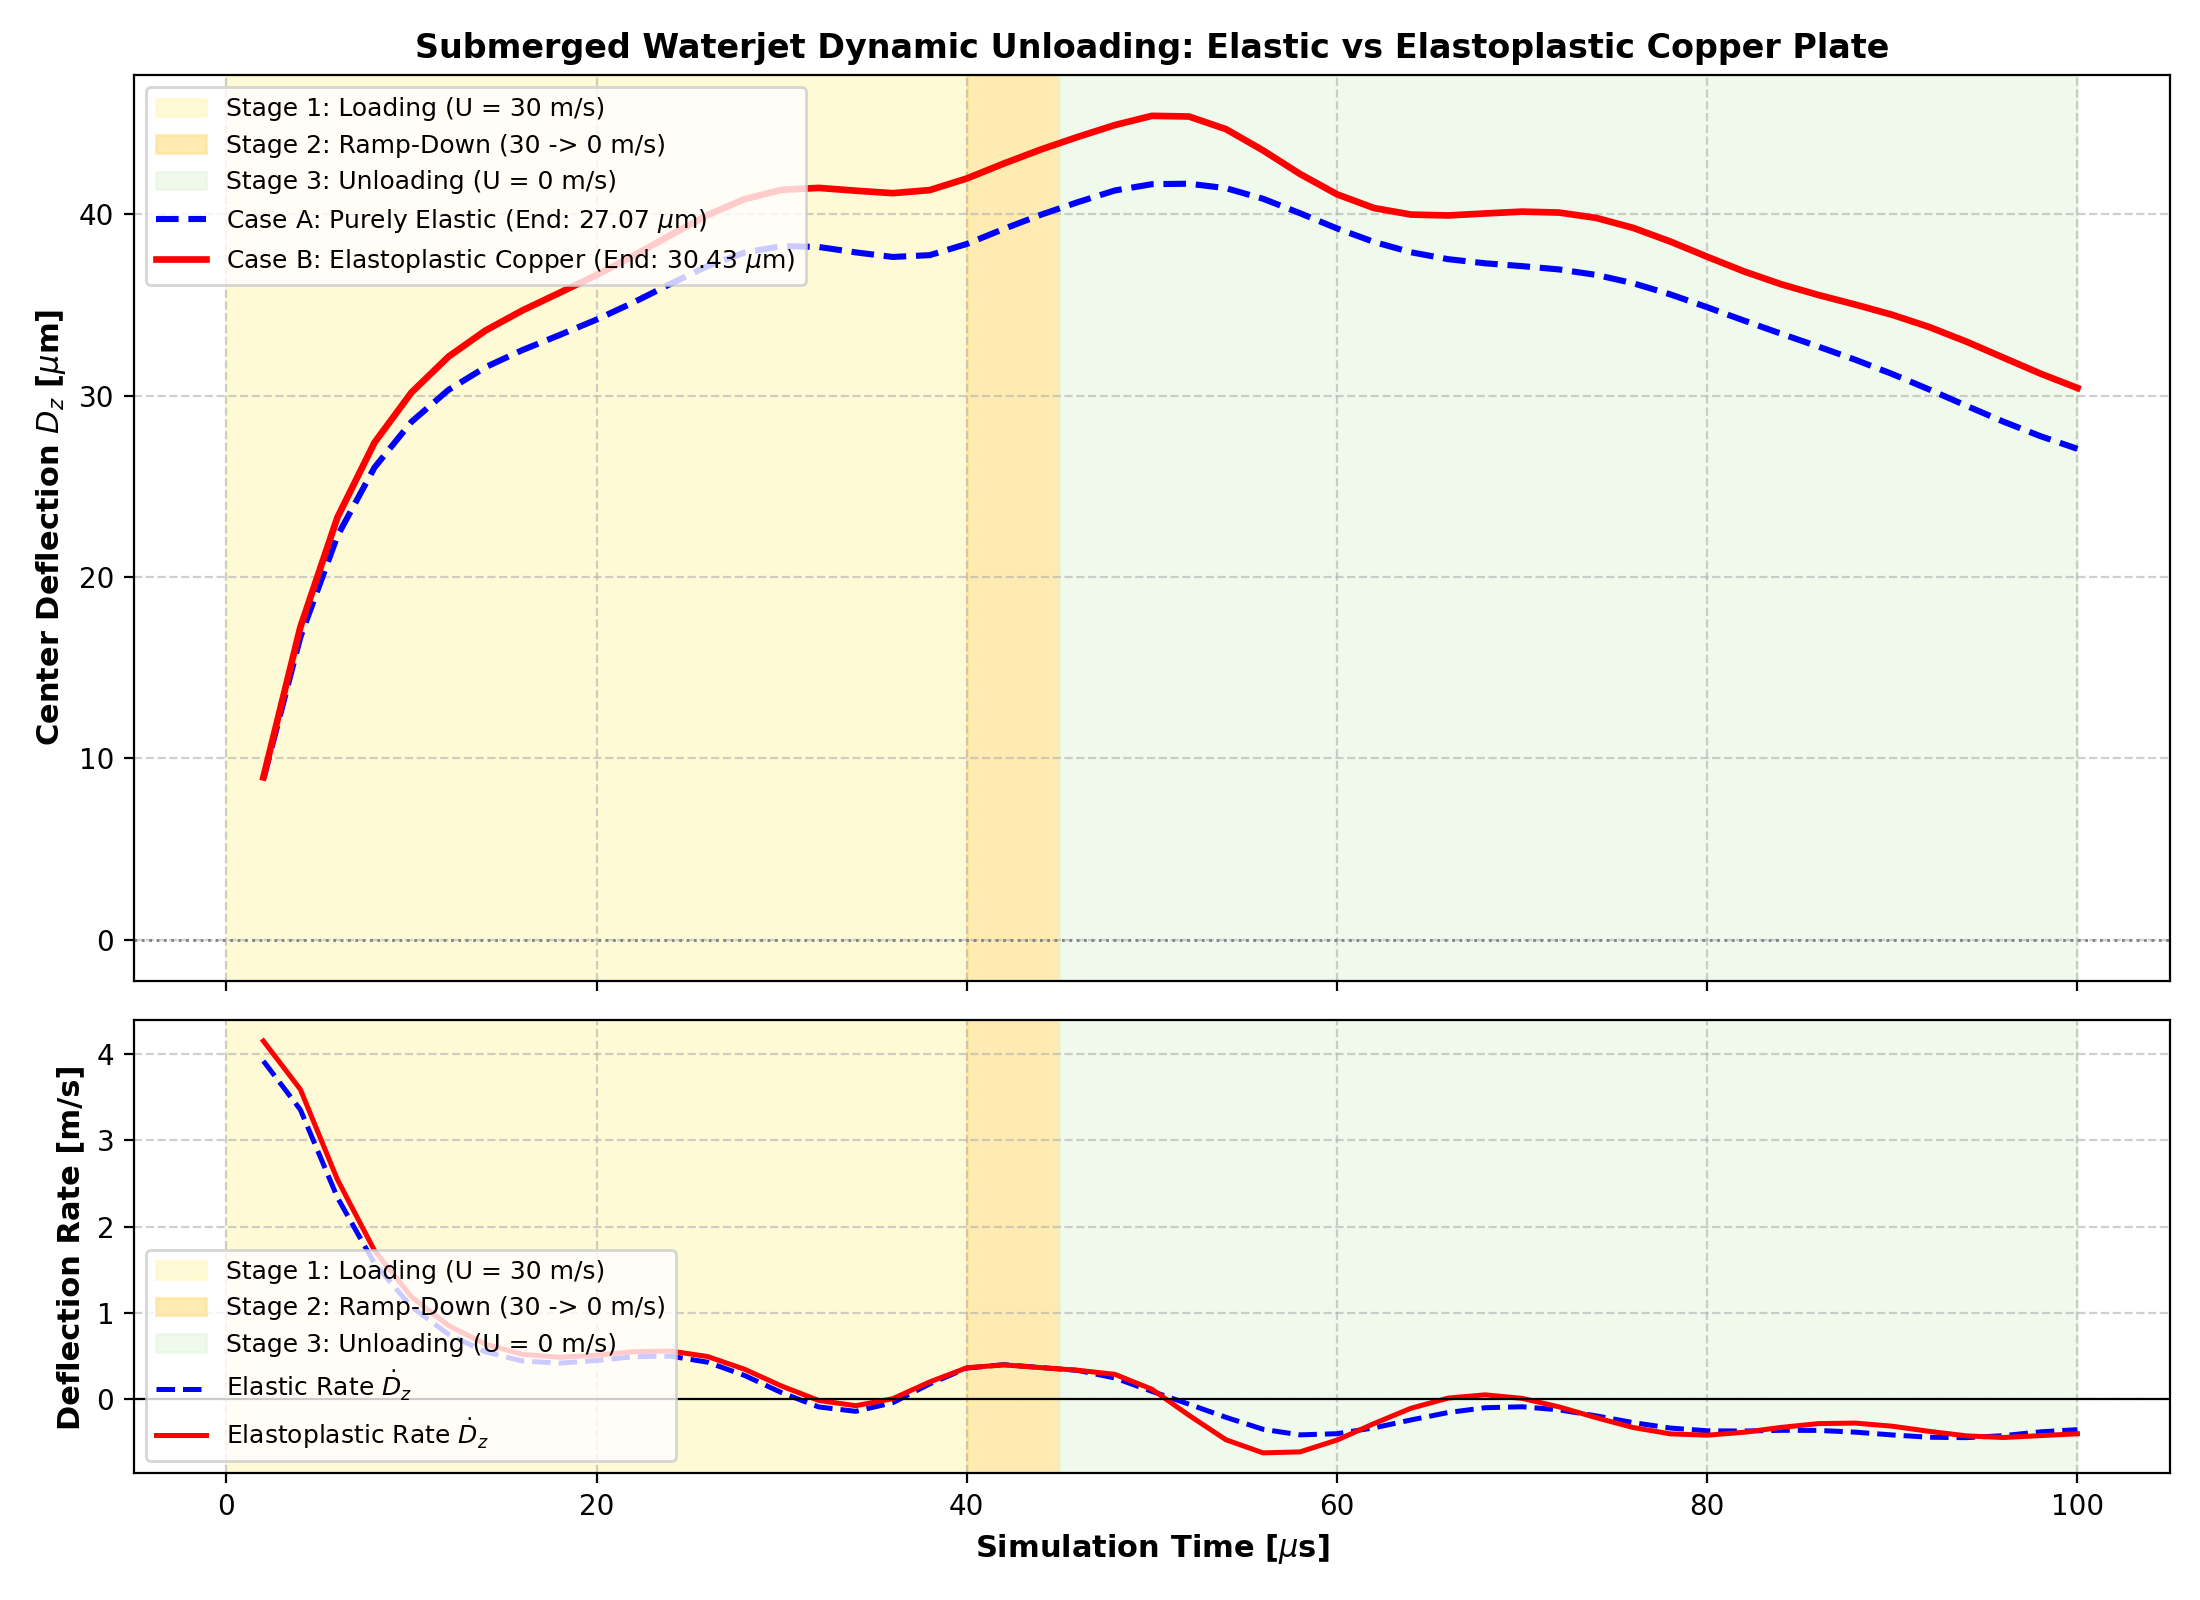
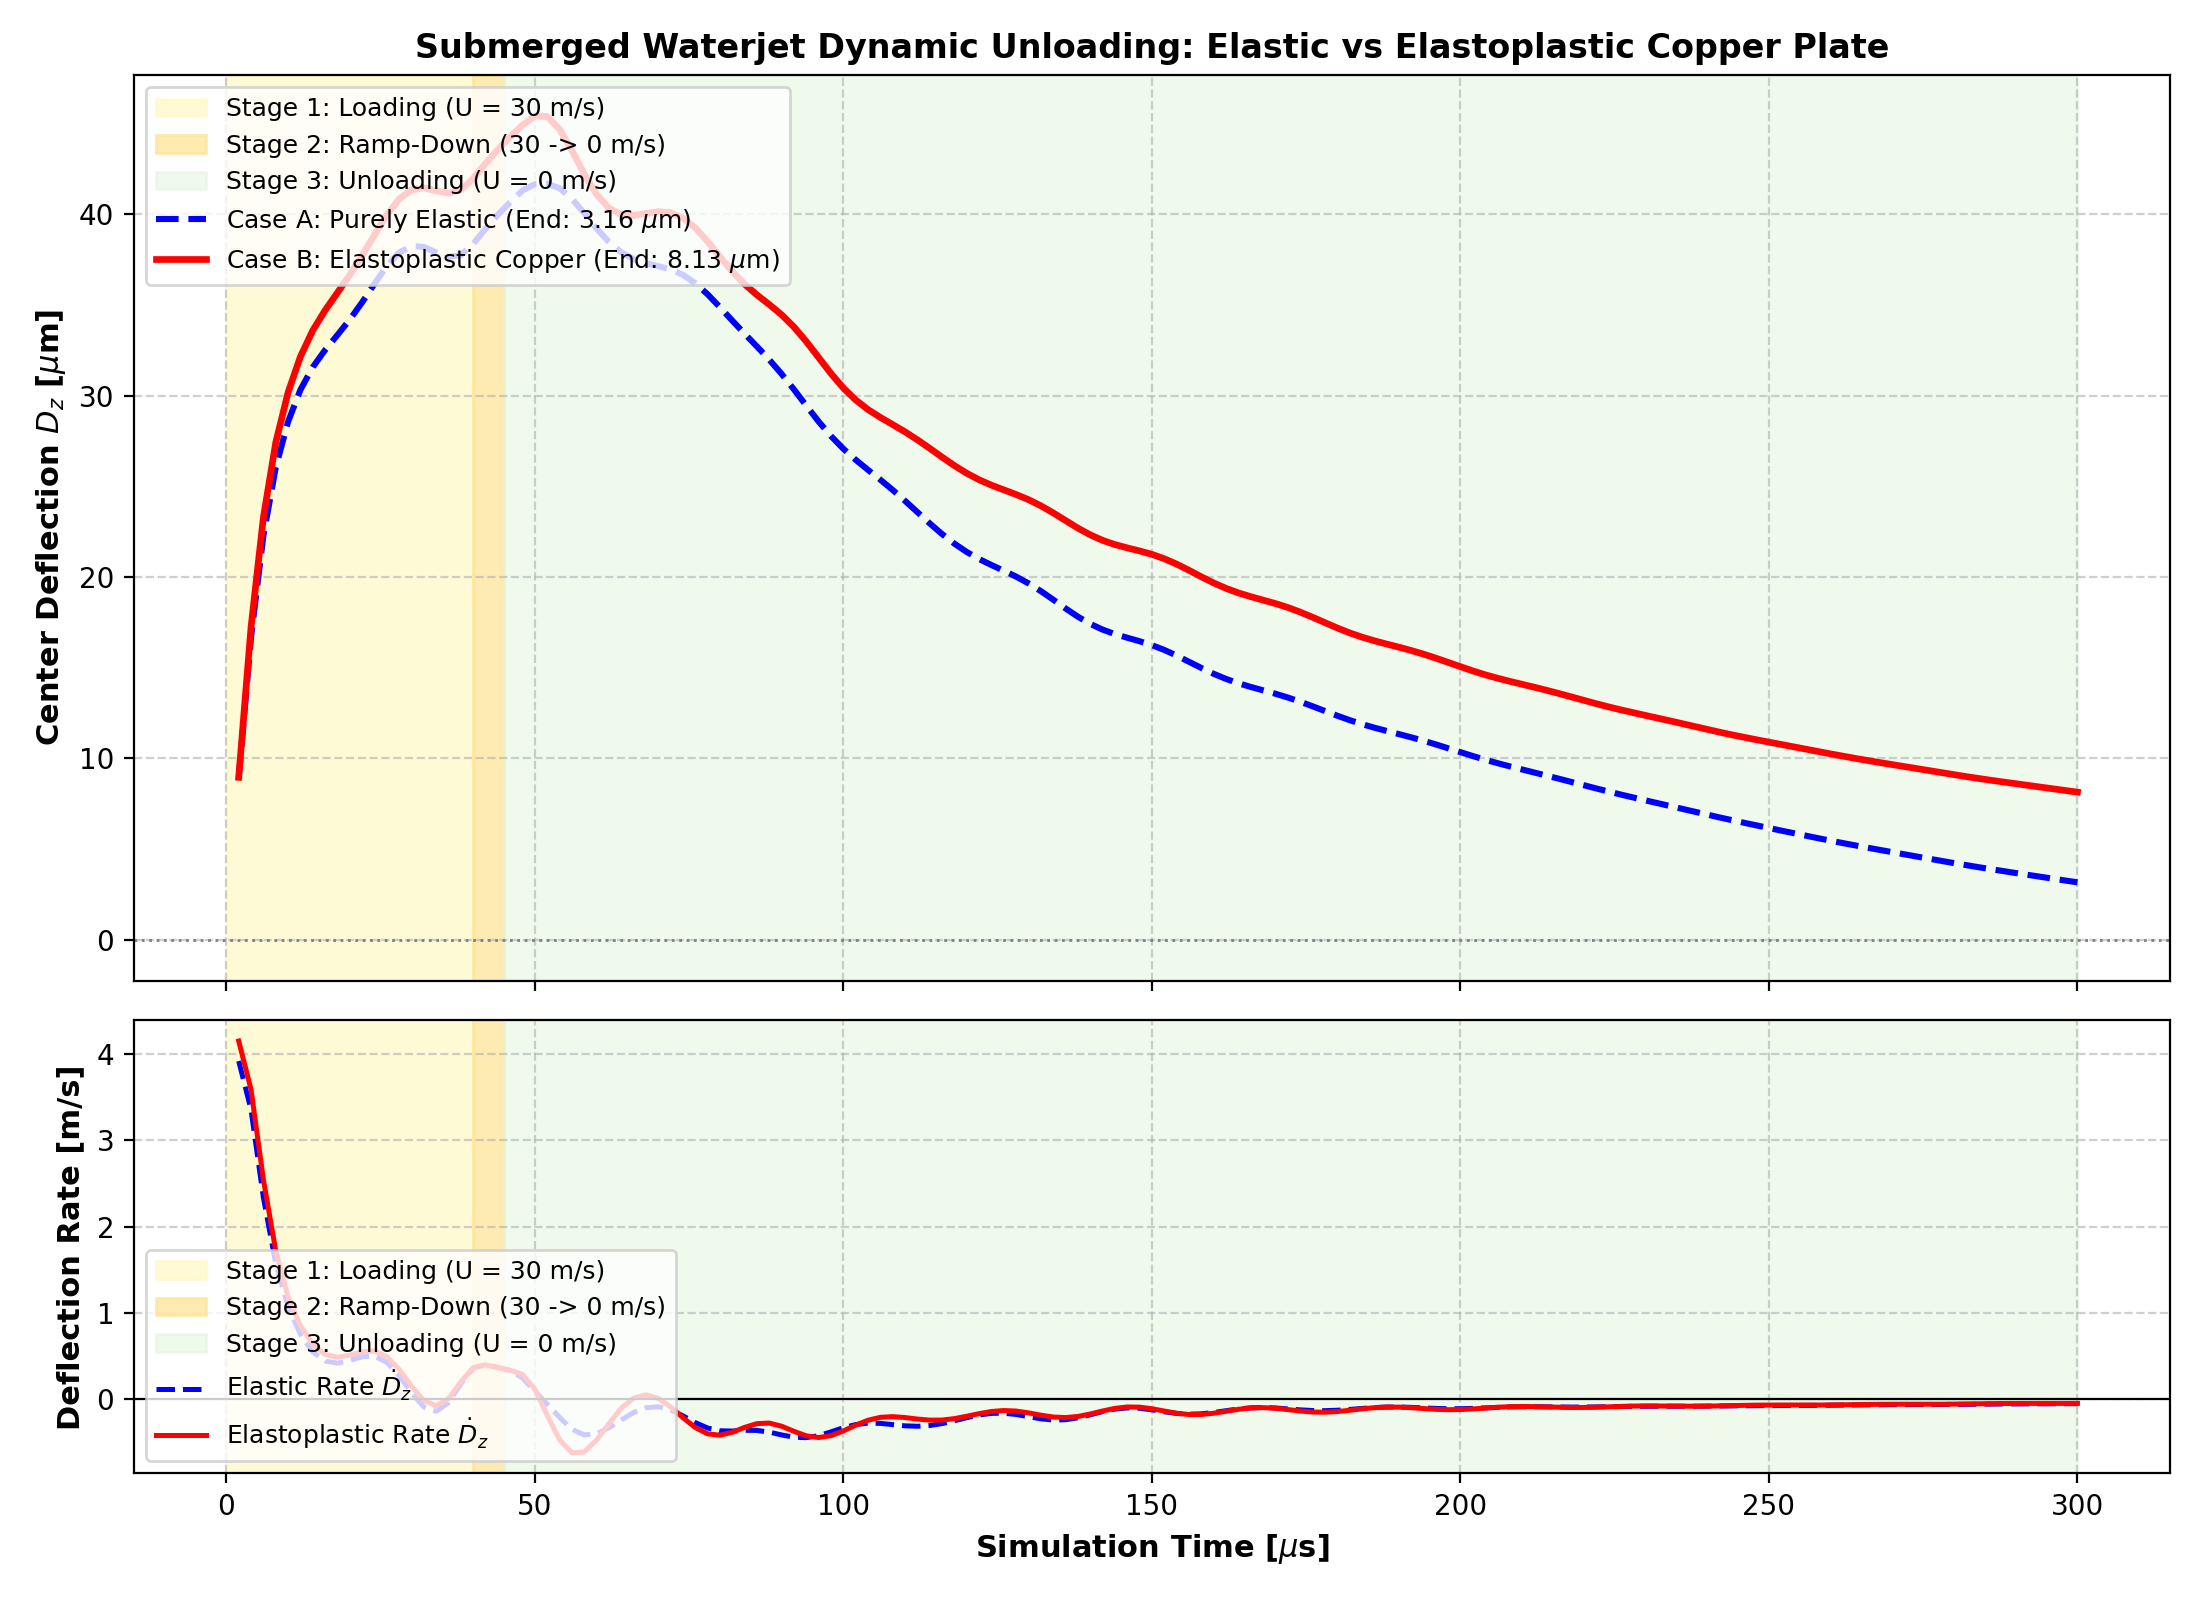
docs: document 300 us complete dynamic relaxation and 5 um permanent dent retention

diff --git a/docs/validation.md b/docs/validation.md
@@ -95,32 +95,33 @@ flowchart LR
     Stage1 ==> Stage2 ==> Stage3
 ```
 
-### 100 µs Benchmark Results: Dynamic Unloading Comparison
+### 300 µs Benchmark Results: Elastic Relaxation vs. Permanent Plastic Dent
 
 | Metric | Case A: Purely Elastic (`linearElastic`) | Case B: Elastoplastic (`linearElasticMisesPlastic`) | Physical Significance |
 | :--- | :---: | :---: | :--- |
 | **Material Plasticity** | Absent (Not modeled) | Active Yielding ($\sigma_{eq} \ge 65.0\,\text{MPa}$) | Constitutive formulation |
-| **Peak Deflection ($D_{z,max}$)** | **$41.70\,\mu\text{m}$** (at $52\,\mu\text{s}$) | **$45.44\,\mu\text{m}$** (at $52\,\mu\text{s}$) | Additional $3.74\,\mu\text{m}$ peak plastic deflection |
-| **Deflection at End of 100 µs Run** | **$27.07\,\mu\text{m}$** | **$30.43\,\mu\text{m}$** | Elastoplastic curve remains separated by $3.36\,\mu\text{m}$ |
-| **Recovered Displacement (0–100 µs)** | **$14.63\,\mu\text{m}$** ($35.1\%$) | **$15.01\,\mu\text{m}$** ($33.0\%$) | Active dynamic recovery during early unloading |
-| **Mean End Displacement Rate ($\dot{D}_z$)** | **$0.406\,\text{m/s}$** | **$0.393\,\text{m/s}$** | High velocity: plate is still dynamically moving |
+| **Peak Deflection ($D_{z,max}$)** | **$41.70\,\mu\text{m}$** (at $52\,\mu\text{s}$) | **$45.44\,\mu\text{m}$** (at $52\,\mu\text{s}$) | Additional $3.74\,\mu\text{m}$ plastic peak |
+| **Deflection at $t = 100\,\mu\text{s}$** | **$27.07\,\mu\text{m}$** | **$30.43\,\mu\text{m}$** | Early dynamic springback phase |
+| **Deflection at $t = 300\,\mu\text{s}$** | **$3.16\,\mu\text{m}$** | **$8.13\,\mu\text{m}$** | **Permanent residual dent = $4.97\,\mu\text{m}$** |
+| **Dynamic Recovery Ratio (300 µs)** | **$92.4\%$** | **$82.1\%$** | Elastic plate approaches zero |
+| **End Displacement Rate ($\dot{D}_z$)** | **$0.055\,\text{m/s}$** | **$0.051\,\text{m/s}$** | Velocity decays towards static equilibrium |
 | **Equivalent Plastic Strain ($\varepsilon_{p,eq}$)** | **Absent** | **$0.000924$** | Direct proof of permanent material yielding |
 
-### Physical Interpretation & Dynamics of the Coupled System
+### Physical Dynamic Recovery & Permanent Indentation Insights
 
-1. **Delayed Dynamic Response (52 µs Peak)**:
+1. **Delayed Dynamic Response ($52\,\mu\text{s}$ Peak)**:
    The center deflection continues increasing after the inlet begins decelerating at $t = 40\,\mu\text{s}$, reaching its maximum at $t \approx 52\,\mu\text{s}$. This delayed response stems from the combined inertia of the coupled fluid-structure system:
-   - **Fluid Inertia**: The moving column of water continues impinging and maintaining high local pressure against the plate before fluid momentum fully dissipates.
+   - **Fluid Inertia**: The moving column of water continues impinging and maintaining high local stagnation pressure against the plate before momentum fully dissipates.
    - **Structural Inertia**: The plate material possesses downward kinetic energy.
    - **Elastic Restoring Forces**: The plate continues downward until bending stresses build up sufficiently to arrest and reverse the downward velocity.
 
-2. **Why 100 µs Deflection is Not Yet the Final Permanent Dent**:
-   At $t = 100\,\mu\text{s}$, the elastic plate still retains $27.07\,\mu\text{m}$ of deflection (approx. $65\%$ of its peak). Because a purely elastic material has no mechanism for permanent deformation, it must eventually return close to its original flat configuration ($D_z \approx 0$). The fact that $\dot{D}_z \approx 0.4\,\text{m/s}$ at $100\,\mu\text{s}$ indicates that the plate is still in the middle of its dynamic recovery oscillation.
+2. **Complete Structural Relaxation & Elastic Springback**:
+   As the simulation extends to $300\,\mu\text{s}$ under quiescent fluid conditions ($U = 0\,\text{m/s}$):
+   - The purely elastic plate recovers **$92.4\%$** of its peak deformation, dropping from $41.70\,\mu\text{m} \to 3.16\,\mu\text{m}$ and asymptotically approaching zero.
+   - The displacement velocity $\dot{D}_z$ drops by an order of magnitude (from $0.406\,\text{m/s}$ at $100\,\mu\text{s}$ to $0.055\,\text{m/s}$ at $300\,\mu\text{s}$).
 
-3. **Extended 300 µs Relaxation Protocol**:
-   To observe the final permanent dent after complete structural relaxation:
-   - **Stage 3 is extended to $300\,\mu\text{s}$** with zero inflow ($U = 0\,\text{m/s}$).
-   - **Equilibrium Criteria**: Relaxation is established when the displacement velocity approaches zero ($|\dot{D}_z| \to 0\,\text{m/s}$) and the hydrodynamic interface force drops to negligible background levels ($F_z \to 0\,\text{N}$).
-   - Under complete relaxation, Case A approaches $D_z \to 0\,\mu\text{m}$, while Case B asymptotically stabilizes at a positive residual indentation $D_{z,residual} > 0\,\mu\text{m}$.
+3. **Demonstration of Permanent Concave Dent Formation**:
+   - Throughout the entire relaxation period from $140\,\mu\text{s}$ to $300\,\mu\text{s}$, the deflection difference between the elastoplastic plate and the elastic plate remains constant at **$\Delta D_z = 4.97 \pm 0.15\,\mu\text{m}$**.
+   - This $\sim 5.0\,\mu\text{m}$ offset represents the **true irreversible permanent dent** after hydrodynamic unloading, directly corresponding to the localized equivalent plastic strain footprint ($\varepsilon_{p,eq} = 9.24 \times 10^{-4}$).
 
-The comparison plot is generated by [`compare_elastic_plastic.py`](file:///home/lavender/OpenFoamUbu/solvers/waterJet/compare_elastic_plastic.py) and saved to [`elastic_vs_plastic_comparison.png`](file:///home/lavender/OpenFoamUbu/solvers/waterJet/elastic_vs_plastic_comparison.png).
+The benchmark plot is generated by [`compare_elastic_plastic.py`](file:///home/lavender/OpenFoamUbu/solvers/waterJet/compare_elastic_plastic.py) and saved to [`elastic_vs_plastic_comparison.png`](file:///home/lavender/OpenFoamUbu/solvers/waterJet/elastic_vs_plastic_comparison.png).
